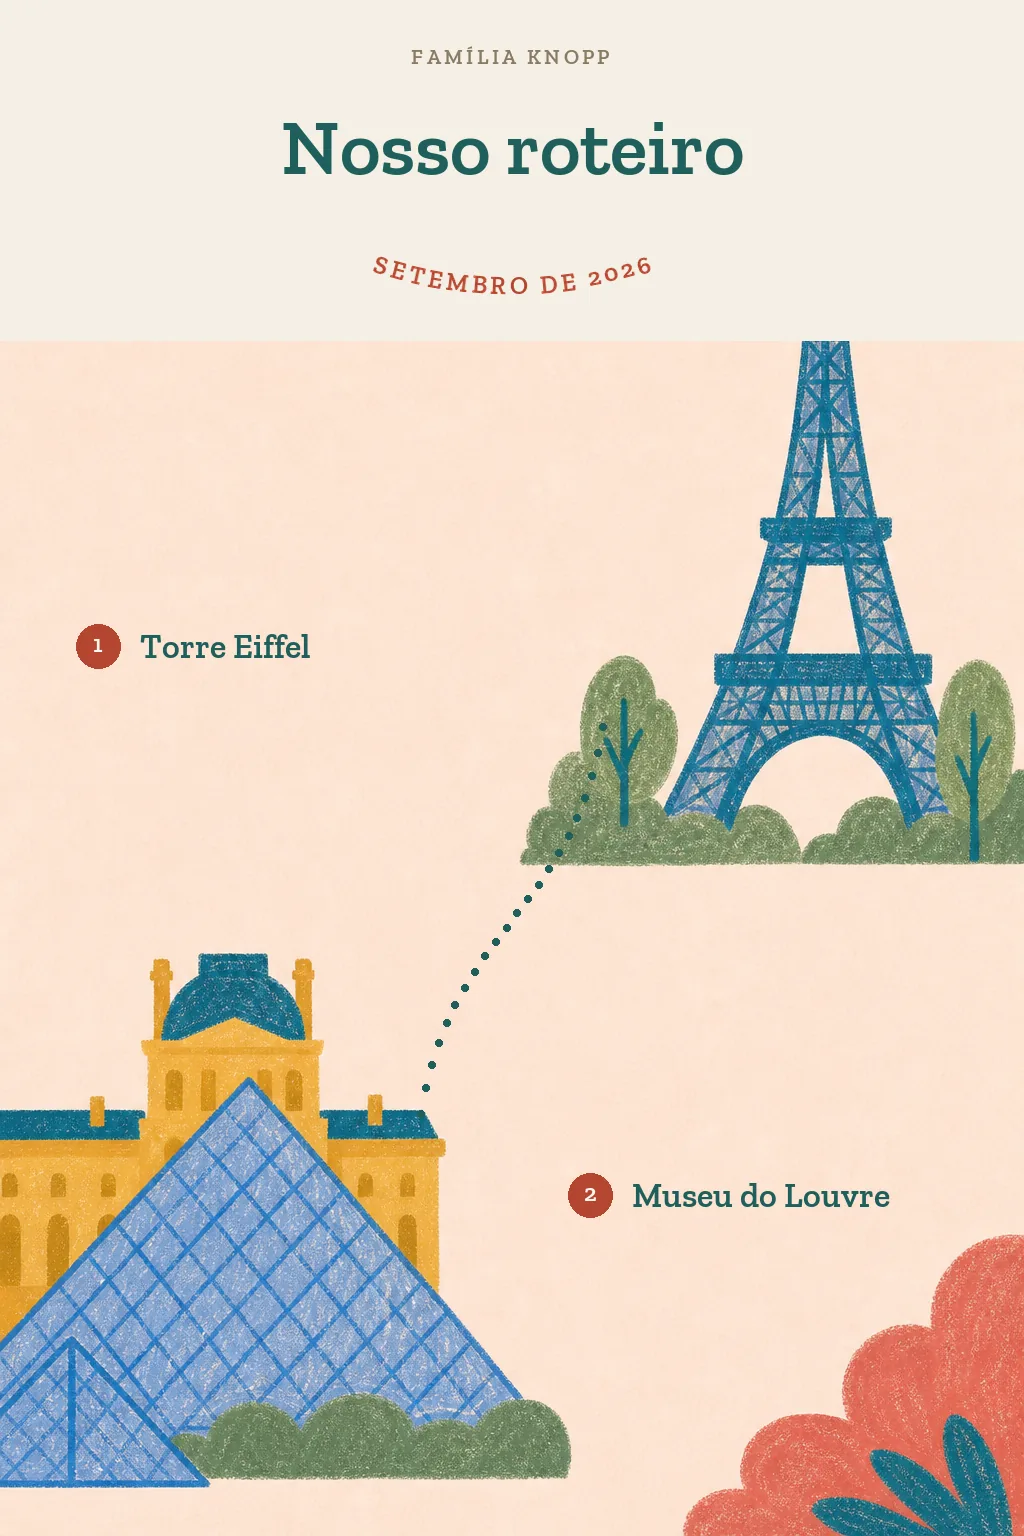
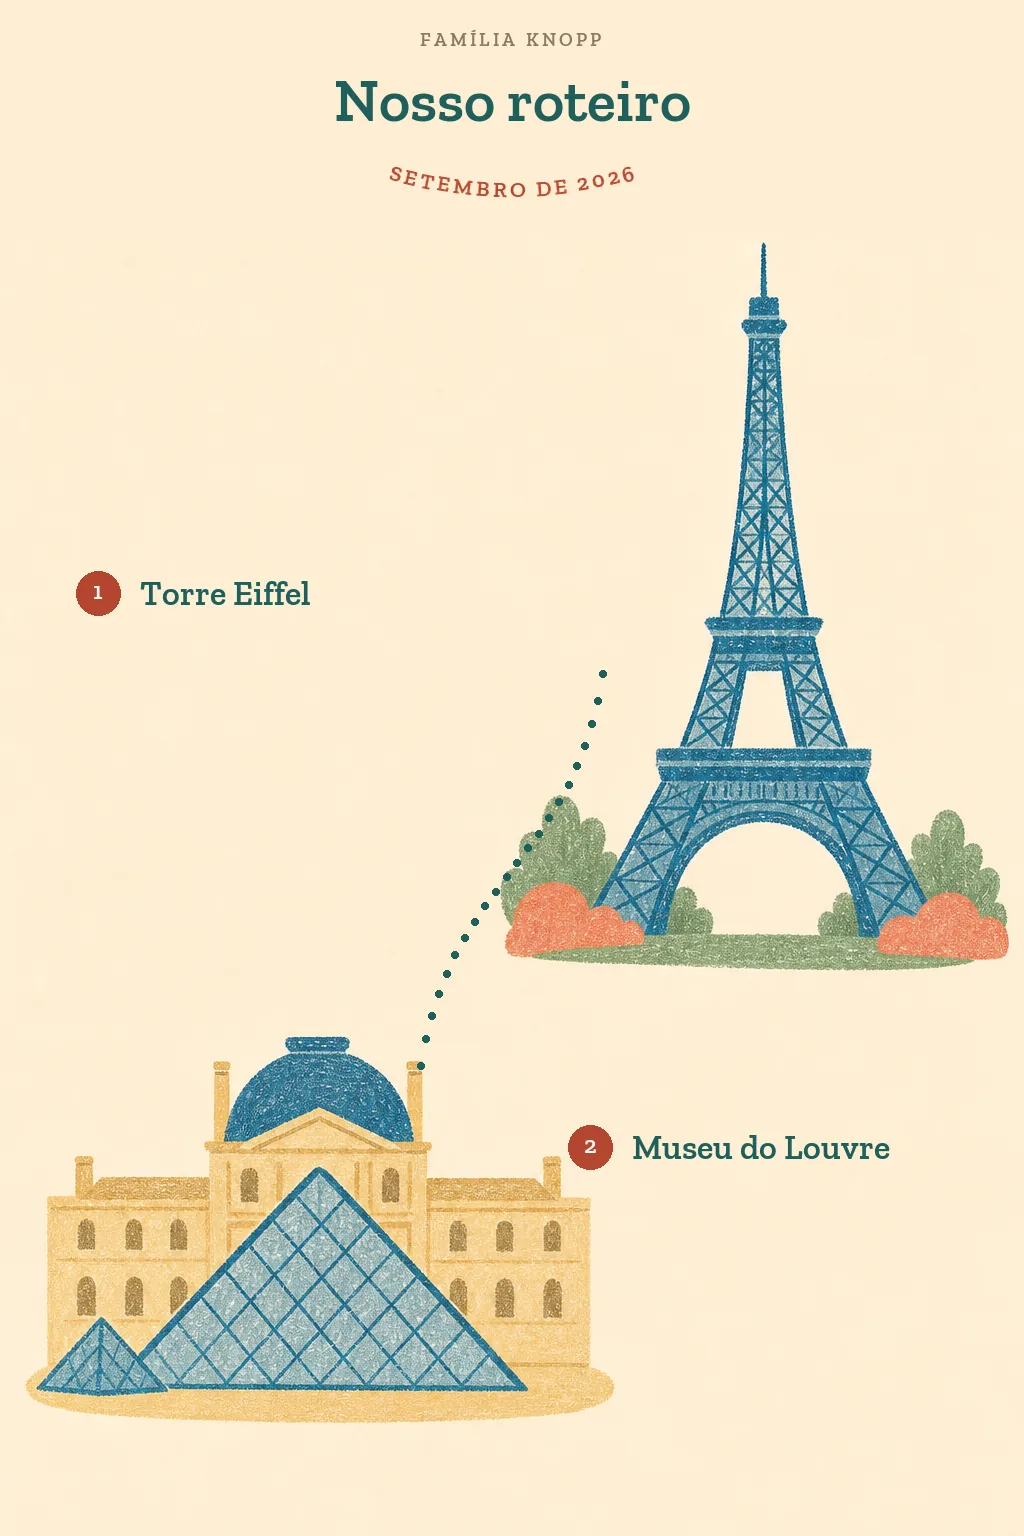
Tirar a emenda de cor do roteiro e parar de decapitar as paradas
Três defeitos na mesma página, todos visíveis a olho nu.

A faixa creme da cabeceira abria um corte no meio da folha, como se fossem
duas páginas coladas. Agora a cor sai do próprio desenho: mediana por canal
das metades que o contrato garante vazias — mediana e não média, porque um
motivo que escape para a metade vazia puxaria a média para o lado dele. A
página inteira fica de uma cor só e a emenda deixa de existir.

O letreiro ocupava 22% da folha. Quem tem de ocupar espaço aqui são as
paradas, então a cabeceira ganhou uma versão compacta e caiu para 15%.

E a torre saía sem a ponta — pelo meu próprio retângulo, que apagava o que
estivesse ali. A defesa principal virou estrutural: o prompt reserva até a
primeira faixa (21%) e o código pinta só 15%, então os 84 px de folga absorvem
o transbordo do modelo. A rede embaixo disso é uma guarda que recusa a página
quando algo cruza a linha da pintura.

A guarda mede colunas na linha do corte, não área da faixa. Área não separa
nada: o giz deixa 2 a 5% de ruído e a ponta fina de uma torre acrescenta pouco
mais que isso. Na linha, o sinal é limpo — coluna sem desenho dá 0 a 1%, a
antena que só encosta dá 2,7%, e estrutura de verdade passa de 30%. O limite
de 3% é o degrau medido entre os dois.

diff --git a/src/minerva_travel/activity_page_compositor.py b/src/minerva_travel/activity_page_compositor.py
@@ -2264,27 +2264,44 @@ def _draw_scene_page_header(
     overline: str,
     title: str,
     arched: str,
+    compact: bool = False,
 ) -> None:
-    """A cabeceira das paginas ilustradas: sobrelinha, titulo e a linha em arco."""
+    """A cabeceira das paginas ilustradas: sobrelinha, titulo e a linha em arco.
+
+    A versao compacta serve a pagina do roteiro, onde quem tem de ocupar a
+    folha sao as ilustracoes das paradas — nao o letreiro.
+    """
+
+    if compact:
+        y_sobrelinha, corpo_sobrelinha = 28, 19
+        y_titulo, maior, menor, teto = 64, 60, 30, 88
+        linha_do_arco, corpo_do_arco = 190, 22
+    else:
+        y_sobrelinha, corpo_sobrelinha = 44, 21
+        y_titulo, maior, menor, teto = 100, 78, 34, TITULO_ALTURA_MAXIMA
+        linha_do_arco, corpo_do_arco = 286, 25
 
     if overline:
         _draw_tracked(
-            draw, overline.upper(), 44, size=21, fill=MUTED_INK, maximum_width=880
+            draw,
+            overline.upper(),
+            y_sobrelinha,
+            size=corpo_sobrelinha,
+            fill=MUTED_INK,
+            maximum_width=880,
         )
-    # O titulo vai de 100 ate a linha em arco (286), menos a altura das letras
+    # O titulo vai do seu topo ate a linha em arco, menos a altura das letras
     # do arco. Em duas linhas, sem esse teto, a segunda descia sobre o arco.
-    _draw_centered_fit(
-        draw, title, 100, 78, 34, 880, bold=True, maximum_height=TITULO_ALTURA_MAXIMA
-    )
+    _draw_centered_fit(draw, title, y_titulo, maior, menor, 880, bold=True, maximum_height=teto)
     if arched:
-        # Arco lido em 286, entao o centro da circunferencia fica um raio acima.
+        # Fundo do circulo na linha do arco: o centro fica um raio acima.
         RAIO = 430
         _arc_text(
             image,
             arched.upper(),
-            center=(PAGE_IMAGE_SIZE[0] // 2, 286 - RAIO),
+            center=(PAGE_IMAGE_SIZE[0] // 2, linha_do_arco - RAIO),
             radius=RAIO,
-            size=25,
+            size=corpo_do_arco,
             fill=ACCENT,
             below=True,
         )
@@ -2421,8 +2438,22 @@ SUMMARY_BULLET_GAP = 20
 # alternando de lado, e o nome na metade vazia da mesma faixa. O modelo so
 # desenha as vinhetas; a rota pontilhada e os nomes sao do codigo, que assim
 # sabe exatamente onde cada parada esta.
-SUMMARY_ROUTE_TOP = 372
-SUMMARY_ROUTE_BOTTOM = 1470
+# O letreiro nao e o assunto da pagina: as paradas sao. Com 340 px de faixa a
+# torre chegava a ser tapada pela cabeceira e saia sem a ponta.
+SUMMARY_HEADER_HEIGHT = 232
+# O prompt reserva MAIS do que o codigo pinta. A ponta da torre chegou a 200 e
+# foi apagada pelo proprio retangulo da cabeceira; esta folga de 84 px entre o
+# fim da pintura e o inicio da primeira faixa absorve o transbordo do modelo.
+SUMMARY_ROUTE_TOP = 316
+# Acima disto, o que a cabeceira ia cobrir nao e fundo: e monumento. Pintar por
+# cima decapitaria a parada, e em silencio — o pior desfecho possivel. O numero
+# vem de medicao: 3% e o degrau entre a antena que so encosta na linha (2,7%) e
+# um corte que pega estrutura de verdade (a partir de 4,7%).
+SUMMARY_HEADER_INTRUSION_LIMIT = 0.03
+# Margem de verdade no pe da folha: com a ultima faixa terminando a 58 px
+# da borda, o modelo leu aquilo como permissao para sangrar, e o Louvre
+# saiu sem base.
+SUMMARY_ROUTE_BOTTOM = 1424
 SUMMARY_HALF = PAGE_IMAGE_SIZE[0] // 2
 SUMMARY_ROUTE_DOT = 7
 SUMMARY_ROUTE_STEP = 34
@@ -2446,6 +2477,65 @@ def summary_band(index: int, total: int) -> tuple[int, int, bool]:
     altura = (SUMMARY_ROUTE_BOTTOM - SUMMARY_ROUTE_TOP) // max(1, total)
     topo = SUMMARY_ROUTE_TOP + index * altura
     return topo, topo + altura, index % 2 == 0
+
+
+def _ground_colour(image: Image.Image, boxes: Sequence[tuple[int, int, int, int]]) -> str:
+    """A cor chapada que a arte usou, medida onde o contrato manda ficar vazio.
+
+    Pintar a cabeceira com uma cor da paleta abria um corte visivel no meio da
+    folha, como se fossem duas paginas coladas. Tirando a cor do proprio
+    desenho, a emenda deixa de existir.
+
+    A mediana por canal, e nao a media: um motivo que escape para a metade
+    vazia puxaria a media para o lado dele, mas nao move a mediana.
+    """
+
+    canais: list[list[int]] = [[], [], []]
+    for box in boxes:
+        recorte = image.crop(box).resize((32, 32), Image.Resampling.BILINEAR).convert("RGB")
+        pixels = recorte.load()
+        if pixels is None:  # pragma: no cover - Pillow devolve None so em erro
+            continue
+        for x in range(32):
+            for y in range(32):
+                for indice, valor in enumerate(cast(tuple[int, ...], pixels[x, y])):
+                    canais[indice].append(valor)
+    if not canais[0]:
+        return BAND
+    mediana = tuple(sorted(canal)[len(canal) // 2] for canal in canais)
+    return "#{:02X}{:02X}{:02X}".format(*mediana)
+
+
+def _edge_crossing_fraction(
+    image: Image.Image,
+    y: int,
+    ground: str,
+    *,
+    tolerance: int = 40,
+    thickness: int = 8,
+) -> float:
+    """Fracao das colunas em que algo atravessa a linha onde o codigo vai pintar.
+
+    Medir a AREA da faixa nao separa nada: o giz deixa 2 a 5% de ruido e a ponta
+    fina de uma torre acrescenta pouco mais que isso. Na linha do corte o sinal
+    e limpo. Medido nesta arte: coluna sem desenho da 0 a 1%, a antena da torre
+    da 2,7%, e o corpo de um monumento passa de 30%.
+    """
+
+    alvo = tuple(int(ground[i : i + 2], 16) for i in (1, 3, 5))
+    pixels = image.convert("RGB").load()
+    if pixels is None:  # pragma: no cover - Pillow devolve None so em erro
+        return 0.0
+    largura, altura = image.size
+    colunas = range(0, largura, 2)
+    atravessadas = 0
+    for x in colunas:
+        for dy in range(-thickness, thickness + 1, 4):
+            cor = cast(tuple[int, ...], pixels[x, max(0, min(altura - 1, y + dy))])
+            if max(abs(cor[i] - alvo[i]) for i in range(3)) > tolerance:
+                atravessadas += 1
+                break
+    return atravessadas / len(colunas)
 
 
 def _draw_dotted_route(draw: ImageDraw.ImageDraw, pontos: Sequence[tuple[float, float]]) -> None:
@@ -2495,14 +2585,35 @@ def compose_summary_page(
     paradas = paradas[:SUMMARY_MAX_STOPS]
 
     image = _load_artwork(artwork_path)
+
+    # As metades vazias sao a unica area que o contrato garante chapada: e de
+    # la que sai a cor da cabeceira, para a pagina inteira ficar de uma cor so.
+    metades_vazias = []
+    for indice in range(len(paradas)):
+        topo, base, vinheta_a_direita = summary_band(indice, len(paradas))
+        metades_vazias.append(
+            (0, topo, SUMMARY_HALF, base)
+            if vinheta_a_direita
+            else (SUMMARY_HALF, topo, PAGE_IMAGE_SIZE[0], base)
+        )
+    fundo = _ground_colour(image, metades_vazias)
+
+    invasao = _edge_crossing_fraction(image, SUMMARY_HEADER_HEIGHT, fundo)
+    if invasao > SUMMARY_HEADER_INTRUSION_LIMIT:
+        raise ActivityPageCompositionError(
+            f"A arte do roteiro cruza a linha do título em {invasao:.0%} da largura; "
+            "pintar por cima decapitaria a parada."
+        )
+
     draw = ImageDraw.Draw(image)
-    draw.rectangle(PAGE_TOP_BAND, fill=BAND)
+    draw.rectangle((0, 0, PAGE_IMAGE_SIZE[0], SUMMARY_HEADER_HEIGHT), fill=fundo)
     _draw_scene_page_header(
         image,
         draw,
         overline=_bounded(family_title, "family_title", 60),
         title=SUMMARY_TITLE,
         arched=_bounded(trip_date, "trip_date", 60) if trip_date.strip() else "",
+        compact=True,
     )
 
     # Um corpo so para todas as paradas: deixar cada nome escolher o seu fazia

diff --git a/src/minerva_travel/page_generation.py b/src/minerva_travel/page_generation.py
@@ -23,10 +23,10 @@ from minerva_travel.activity_page_compositor import (
     COVER_LOCKUP_TOP,
     HERE_VS_HOME_TITLE,
     NEWSPAPER_HEADLINE_TITLE,
-    PAGE_TOP_BAND,
     SCENE_ARTWORK_SIZE,
     SPOT_SCENE_SIZE,
     SUMMARY_MAX_STOPS,
+    SUMMARY_ROUTE_TOP,
     TRAVEL_DIARY_TITLE,
     ActivityPageCompositionError,
     compose_anagram_page,
@@ -1945,7 +1945,9 @@ def summary_page_prompt(
             f"{'LEFT' if a_direita else 'RIGHT'} half of this band empty."
         )
     faixas = "\n".join(faixas_linhas)
-    topo_pct = round(PAGE_TOP_BAND[3] / altura_pagina * 100)
+    # A reserva pedida e a faixa inteira ate a primeira parada, nao so o que
+    # o codigo pinta: pedir menos e receber monumento dentro da cabeceira.
+    topo_pct = round(SUMMARY_ROUTE_TOP / altura_pagina * 100)
     revision = _revision_directive(revision_instruction, has_revision_reference)
     reference = (
         "The supplied input image is the selected current-page attempt and is only a "
@@ -1970,11 +1972,22 @@ signpost, page number, watermark or signature anywhere in this artwork. Trusted 
 numbered list of stops underneath, in the book's own typeface. A vignette must be recognizable on
 its own, without a name written next to it.
 
-LAYOUT — the application prints a title panel over the top {topo_pct} percent of the page and
-writes each stop's name itself, so this artwork must leave room for both. Divide the rest of the
-page into one horizontal band per stop and place each vignette inside its own band, on the side
-named below. THE OTHER SIDE OF EACH BAND MUST STAY EMPTY — plain, calm background with no motif,
-no scenery and no decoration — because the stop's name is printed there.
+BACKGROUND — one single flat pale colour behind the whole page, edge to edge, the same tone from
+top to bottom. No panel, no strip, no framed area, no change of tone anywhere.
+
+LAYOUT — the application writes the guide title across the top {topo_pct} percent of the page and
+prints each stop's name itself, so this artwork must leave room for both. Keep that top strip as
+plain background: nothing may reach into it, and no vignette may be tall enough to be clipped by
+it. Divide the rest of the page into one horizontal band per stop and place each vignette inside
+its own band, on the side named below. THE OTHER SIDE OF EACH BAND MUST STAY EMPTY — plain, calm
+background with no motif, no scenery and no decoration — because the stop's name is printed there.
+
+Every vignette must be COMPLETE inside its own band: the whole monument, from its spire, roof or
+dome down to its base, with a little breathing room above and below. A landmark with its top or
+its base cut off looks like a printing accident. NOTHING may touch or bleed off the top, bottom,
+left or right edge of the page — every drawn thing ends inside the page, surrounded by background.
+Make the vignettes generous — they are the subject of this page — but never bigger than the band
+that holds them.
 
 {faixas}
 

diff --git a/tests/test_activity_page_compositor.py b/tests/test_activity_page_compositor.py
@@ -45,9 +45,11 @@ from minerva_travel.activity_page_compositor import (
     compose_investigator_page,
     compose_landmark_page,
     compose_spot_the_difference_page,
+    compose_summary_page,
     compose_word_search_page,
     crop_scene_for_panel,
     family_coloring_instruction_for,
+    summary_band,
     validate_activity_page,
 )
 from minerva_travel.investigator_activity import (
@@ -542,3 +544,60 @@ def test_a_long_landmark_name_wraps_without_touching_the_arched_place(tmp_path):
         ]
         assert arco, "a linha em arco não foi impressa"
         assert arco[0] - titulo[-1] >= 24, "o título encostou no arco"
+
+
+def _arte_de_roteiro(path: Path, *, invade: bool) -> Path:
+    """Arte de roteiro chapada, com ou sem monumento entrando na cabeceira."""
+
+    imagem = Image.new("RGB", (1024, 1536), "#FEF3D4")
+    desenho = ImageDraw.Draw(imagem)
+    for indice in range(2):
+        topo, base, a_direita = summary_band(indice, 2)
+        cx = 768 if a_direita else 256
+        alto = 140 if not invade else 340
+        desenho.polygon(
+            [(cx, topo + 40 - alto), (cx - 130, base - 60), (cx + 130, base - 60)],
+            fill="#2E5FA3",
+        )
+    imagem.save(path, "PNG")
+    return path
+
+
+def test_the_route_page_refuses_to_behead_a_landmark(tmp_path):
+    """Pintar a cabeceira por cima de um monumento é o pior desfecho: silencioso.
+
+    A folga entre o que o prompt reserva e o que o código pinta é a defesa
+    principal; esta guarda é a rede embaixo dela. Sem ela, uma torre que subiu
+    demais sai sem a ponta e nada avisa.
+    """
+
+    with pytest.raises(ActivityPageCompositionError, match="decapitaria"):
+        compose_summary_page(
+            _arte_de_roteiro(tmp_path / "invade.png", invade=True),
+            tmp_path / "saida.png",
+            family_title="Família Moraes",
+            trip_date="Setembro de 2026",
+            landmark_names=["Torre Eiffel", "Museu do Louvre"],
+        )
+
+
+def test_the_route_page_takes_its_background_colour_from_the_artwork(tmp_path):
+    """A página inteira fica de uma cor só, tirada do próprio desenho.
+
+    Pintar a cabeceira com uma cor da paleta abria um corte visível no meio da
+    folha, como se fossem duas páginas coladas.
+    """
+
+    saida = tmp_path / "roteiro.png"
+    compose_summary_page(
+        _arte_de_roteiro(tmp_path / "arte.png", invade=False),
+        saida,
+        family_title="Família Moraes",
+        trip_date="Setembro de 2026",
+        landmark_names=["Torre Eiffel", "Museu do Louvre"],
+    )
+
+    with Image.open(saida) as imagem:
+        pagina = imagem.convert("RGB")
+        # Um pixel dentro da cabeceira e outro bem abaixo dela, os dois no fundo.
+        assert pagina.getpixel((20, 20)) == pagina.getpixel((20, 1500))
